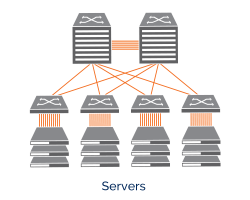
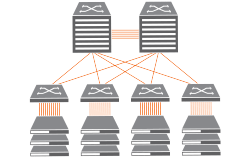
contact container

diff --git a/src/components/Contact/ContactComponent.jsx b/src/components/Contact/ContactComponent.jsx
@@ -67,7 +67,7 @@ const Contact = () => {
       <motion.div
         variants={slideIn('left', 'tween', 0.2, 1)}
         className="flex-[0.75] bg-jet p-8 rounded-2xl">
-        <p className={styles.sectionSubText}>Get in touch</p>
+        <p className={styles.sectionSubText}>"Get in touch"</p>
         <h3 className={styles.sectionHeadTextLight}>Contact.</h3>
 
         <form
@@ -75,7 +75,7 @@ const Contact = () => {
           onSubmit={handleSubmit}
           className="mt-10 flex flex-col gap-6 font-poppins">
           <label className="flex flex-col">
-            <span className="text-timberWolf font-medium mb-4">Your Name</span>
+            <span className="text-timberWolf font-medium mb-4  text-left">Votre nom</span>
             <input
               type="text"
               name="name"
@@ -89,7 +89,7 @@ const Contact = () => {
             />
           </label>
           <label className="flex flex-col">
-            <span className="text-timberWolf font-medium mb-4">Your Email</span>
+            <span className="text-timberWolf font-medium mb-4 text-left">Votre adresse email</span>
             <input
               type="email"
               name="email"
@@ -103,8 +103,8 @@ const Contact = () => {
             />
           </label>
           <label className="flex flex-col">
-            <span className="text-timberWolf font-medium mb-4">
-              Your Message
+            <span className="text-timberWolf font-medium mb-4 text-left">
+              Votre message
             </span>
             <textarea
               rows="7"
@@ -122,19 +122,19 @@ const Contact = () => {
           <button
             type="submit"
             className="live-demo flex justify-center sm:gap-4 
-            gap-3 sm:text-[20px] text-[16px] text-timberWolf 
-            font-bold font-beckman items-center py-5
-            whitespace-nowrap sm:w-[130px] sm:h-[50px] 
-            w-[100px] h-[45px] rounded-[10px] bg-night 
-            hover:bg-battleGray hover:text-eerieBlack 
-            transition duration-[0.2s] ease-in-out"
+              gap-3 sm:text-[20px] text-[16px] text-timberWolf 
+              font-bold font-beckman items-center py-5
+              whitespace-nowrap sm:w-[130px] sm:h-[50px] 
+              w-[100px] h-[45px] rounded-[10px] bg-night 
+              hover:bg-battleGray hover:text-eerieBlack 
+              transition duration-[0.2s] ease-in-out"
             onMouseOver={() => {
               document
                 .querySelector('.contact-btn')
                 .setAttribute('src', sendHover);
             }}
             onMouseOut={() => {
-              document.querySelector('.contact-btn').setAttribute('src', send);
+              document.querySelector('.contact-btn').setAttribute('src', envoyer);
             }}>
             {loading ? 'Sending' : 'Send'}
             <img

diff --git a/src/components/Projects/data/data.js b/src/components/Projects/data/data.js
@@ -2,6 +2,7 @@ import arista from "../../../Assets/Projects/Arista/arista1.png"
 import ansible from "../../../Assets/Projects/Arista/formation-ansible.png"
 import arista_logo from "../../../Assets/Projects/Arista/blob.png"
 import anssi from "../../../Assets/Projects/Anssi/logo_anssi.png"
+import anssi_schéma from "../../../Assets/Projects/Anssi/ANSI-schema.png"
 import elk from "../../../Assets/Icons/elk-logo-1-removebg-preview.png"
 import scrap from "../../../Assets/Projects/Scrape/1_IVCJe9HjFy3WIidHv18Ocg.jpg"
 import python from "../../../Assets/Projects/Arista/logo-python.png"
@@ -13,7 +14,7 @@ import crack from "../../../Assets/Projects/Aircrack-ng/wall.png"
 export const projects = [
     {
       id: 1,
-      title: "Arista Automatisation",
+      title: "Arista Automatisation VXLAN EVPN",
       slide:true,
       slide1:{
         img : MLAG,
@@ -28,7 +29,7 @@ export const projects = [
         title : "Vxlan Evpn L2",
       },
       category: "Réseaux/DevSecops",
-      image: arista,
+      image: python,
       client: {
         name: "Arista Automatisation",
         services: "MLAG BGP EVPN VXLAN",
@@ -49,11 +50,11 @@ export const projects = [
     },
     {
       id: 2,
-      title: "Infrastructure type Anssi",
+      title: "Infrastructure aux normes Anssi",
       category: "Réseaux/Sécurité",
       image: anssi,
       client: {
-        name: "Infrastructure type Anssi",
+        name: "Infrastructure Respectant les normes Anssi",
         services: "HA A/A MPLS OSFP BGP VXLAN EVPN L2",
         website: "https://phoenix.com",
         phone: "555 9876 543"
@@ -65,7 +66,20 @@ export const projects = [
         MPLS,
         "/placeholder.svg?height=400&width=600",
         "/placeholder.svg?height=400&width=600"
-      ]
+      ],
+       slide:true,
+      slide1:{
+        img : anssi_schéma,
+        title : "Mlag",
+      },
+      slide2:{
+        img : BGP,
+        title : "Bgp",
+      },
+      slide3:{
+        img : MLAG,
+        title : "Vxlan Evpn L2",
+      },
     },
     {
       id: 3,
